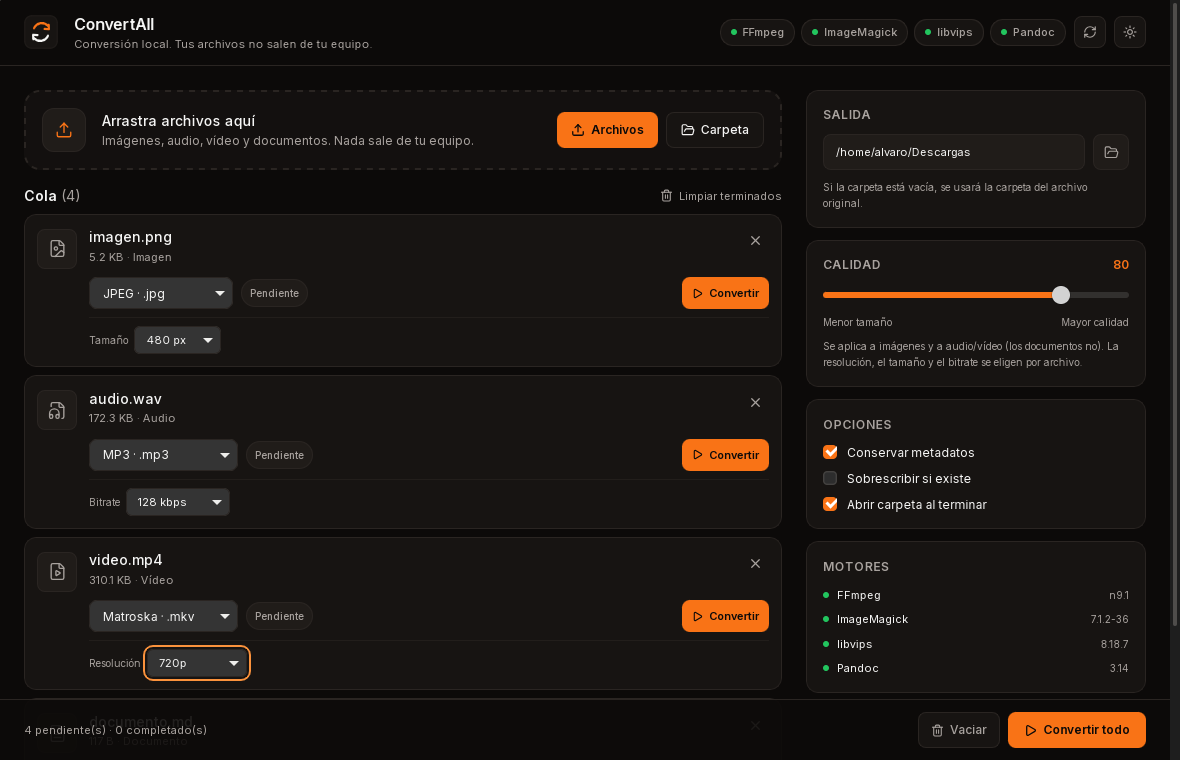
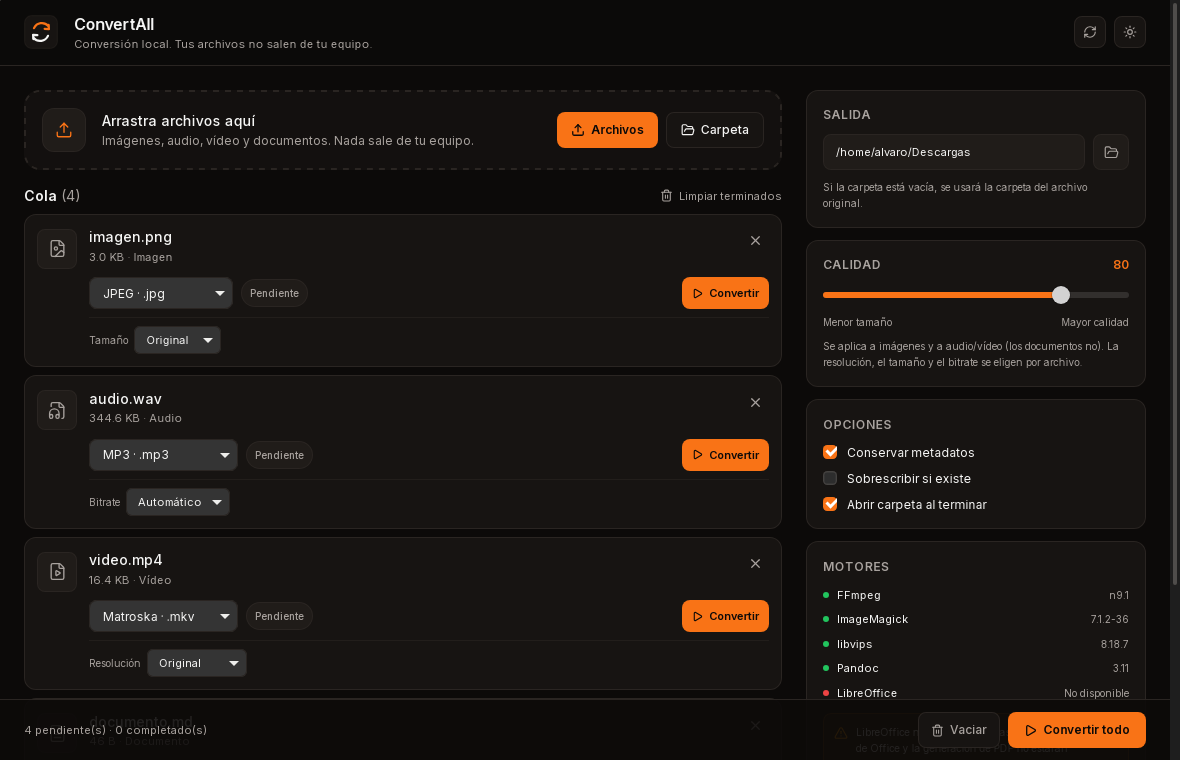
Refuerza la seguridad y reduce el paquete de Windows
- Activa una CSP estricta en producción y una devCsp para Vite.
- Verifica SHA-256 de FFmpeg, Pandoc e ImageMagick al preparar el build.
- Empaqueta el portable de Windows en .7z con 7-Zip.
- Quita los chips de motores de la cabecera; quedan en el panel de ajustes.
- Actualiza la captura, la documentación y la versión a 0.2.1.

diff --git a/src/App.svelte b/src/App.svelte
@@ -25,7 +25,6 @@
   import type { QueueItem, QueueOptionPatch } from "./lib/queue";
   import { formatSize, categoryLabel } from "./lib/format";
   import Logo from "./lib/components/Logo.svelte";
-  import EngineChips from "./lib/components/EngineChips.svelte";
   import DropZone from "./lib/components/DropZone.svelte";
   import QueueItemCard from "./lib/components/QueueItem.svelte";
   import SettingsPanel from "./lib/components/SettingsPanel.svelte";
@@ -556,9 +555,6 @@
       </div>
 
       <div class="ml-auto flex items-center gap-2">
-        <div class="hidden lg:block">
-          <EngineChips {engines} />
-        </div>
         <button
           type="button"
           onclick={refreshEngines}

diff --git a/README.md b/README.md
@@ -24,10 +24,16 @@ Verificado en Linux y Windows:
 - 82 conversiones reales correctas en Linux (imagen, audio, vídeo y documentos).
 - 4 archivos convertidos desde la GUI y desde el AppImage con resolución, tamaño y bitrate (PNG→JPG, WAV→MP3, MP4→MKV, MD→DOCX).
 - El AppImage aísla los motores de sus propias bibliotecas para que libvips e ImageMagick usen las del sistema.
-- Paquete portable de Windows (`.zip`) con FFmpeg, Pandoc e ImageMagick incluidos.
+- Paquete portable de Windows (`.7z`) con FFmpeg, Pandoc e ImageMagick incluidos.
 - Motores de Windows probados bajo Wine: 13/13 conversiones correctas.
 - La app arranca y detecta FFmpeg, ImageMagick, libvips, Pandoc, LibreOffice y Microsoft Office (Windows).
 - El CI de Linux instala LibreOffice y ejecuta `scripts/test-office.sh`: 23/23 conversiones correctas (DOCX/DOC/ODT/RTF/TXT/HTML, CSV/XLSX/XLS/ODS, PPTX/PPT/ODP y PDF).
+
+### Seguridad
+
+- CSP estricta en producción: scripts, estilos, imágenes y conexiones limitados a la propia app y al IPC de Tauri.
+- Los motores descargados para el build de Windows se verifican con SHA-256 contra el checksum publicado por su origen.
+- Sin telemetría, sin subidas y sin red en tiempo de ejecución.
 
 ### Ajustes por archivo
 
@@ -69,7 +75,7 @@ Exportar **a** PDF desde otros formatos sí funciona normalmente.
 
 A partir de **v0.1.2** se mantiene una sola release con la última versión: [Releases](https://github.com/Acd212/ConvertAll/releases/latest).
 
-- Windows: `ConvertAll_x.y.z_x64-portable.zip`, sin instalador. Descomprime y ejecuta `ConvertAll.exe`.
+- Windows: `ConvertAll_x.y.z_x64-portable.7z`, sin instalador. Descomprime, abre la carpeta `ConvertAll` y ejecuta `ConvertAll.exe`. Windows 11 abre `.7z` de forma nativa; en Windows 10 necesitas 7-Zip u otro descompresor compatible.
 - Linux: `ConvertAll_x.y.z_amd64.AppImage`.
 
 ### Instalar LibreOffice
